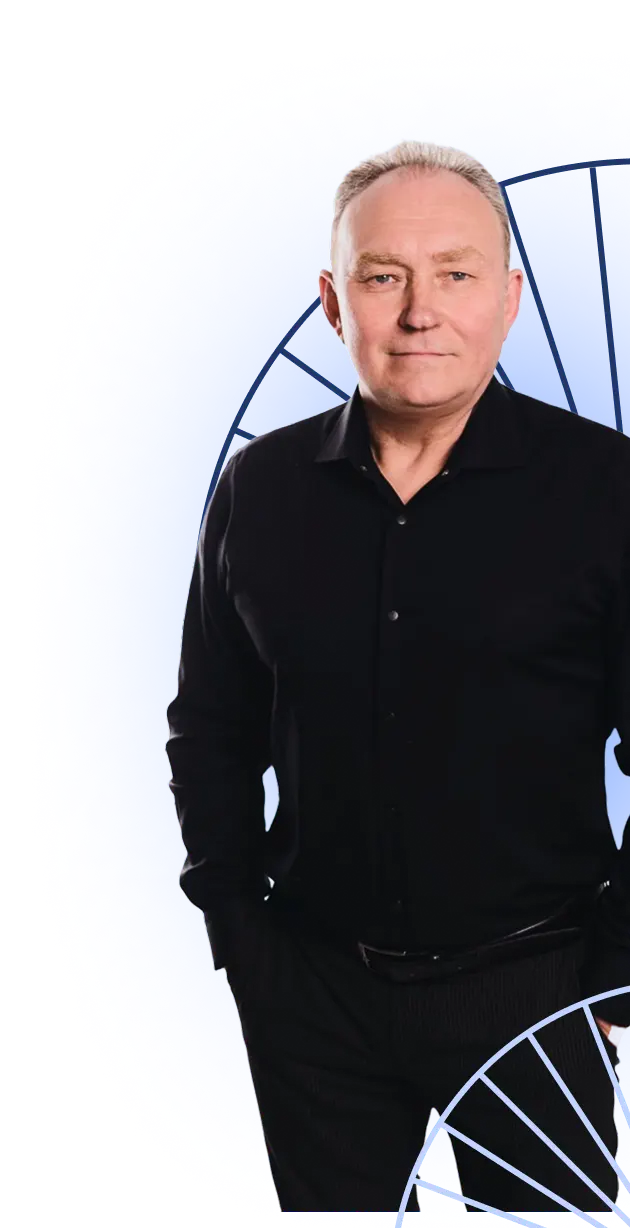
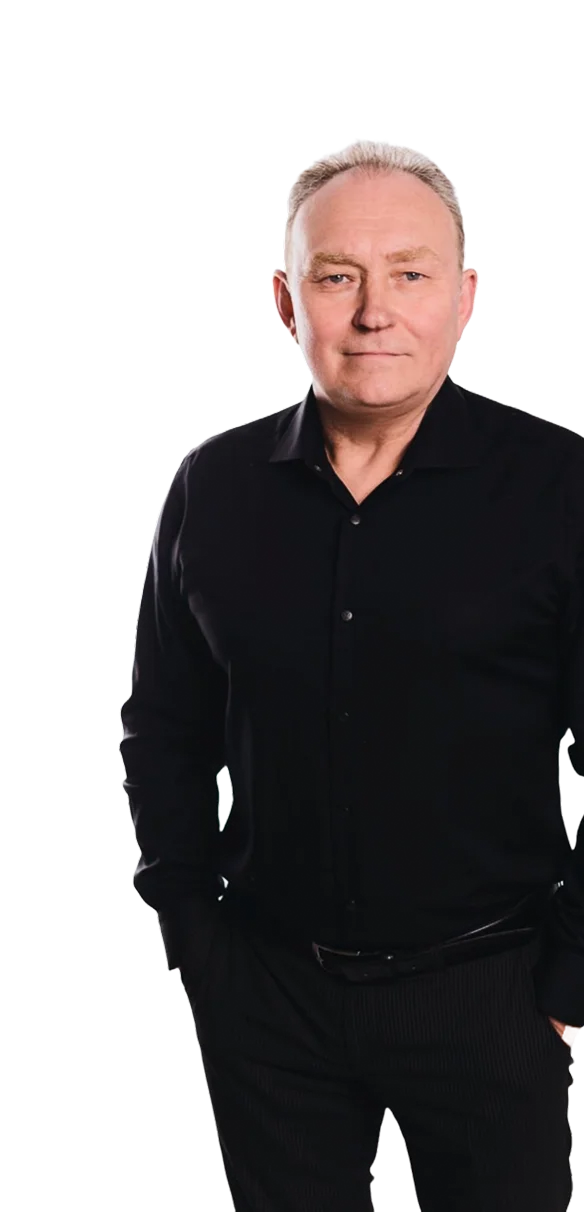
optimized hero person

diff --git a/src/components/homepage/HomeHero.tsx b/src/components/homepage/HomeHero.tsx
@@ -49,6 +49,27 @@ const HomeHero = async () => {
           loading="eager"
         />
         <Image
+          src="/images/homepage/home-hero-decor-top-mob.svg"
+          alt="Декоративне зображення"
+          width={315}
+          height={611}
+          className="object-cover md:hidden"
+          priority
+          fetchPriority="high"
+          loading="eager"
+        />
+        <Image
+          src="/images/homepage/home-hero-decor-bot-mob.svg"
+          alt="Декоративне зображення"
+          width={125}
+          height={125}
+          className="absolute bottom-0 right-0 object-cover md:hidden"
+          priority
+          fetchPriority="high"
+          loading="eager"
+        />
+
+        <Image
           src="/images/homepage/home-hero-person-desk.webp"
           alt="Фонове зображення"
           fill
